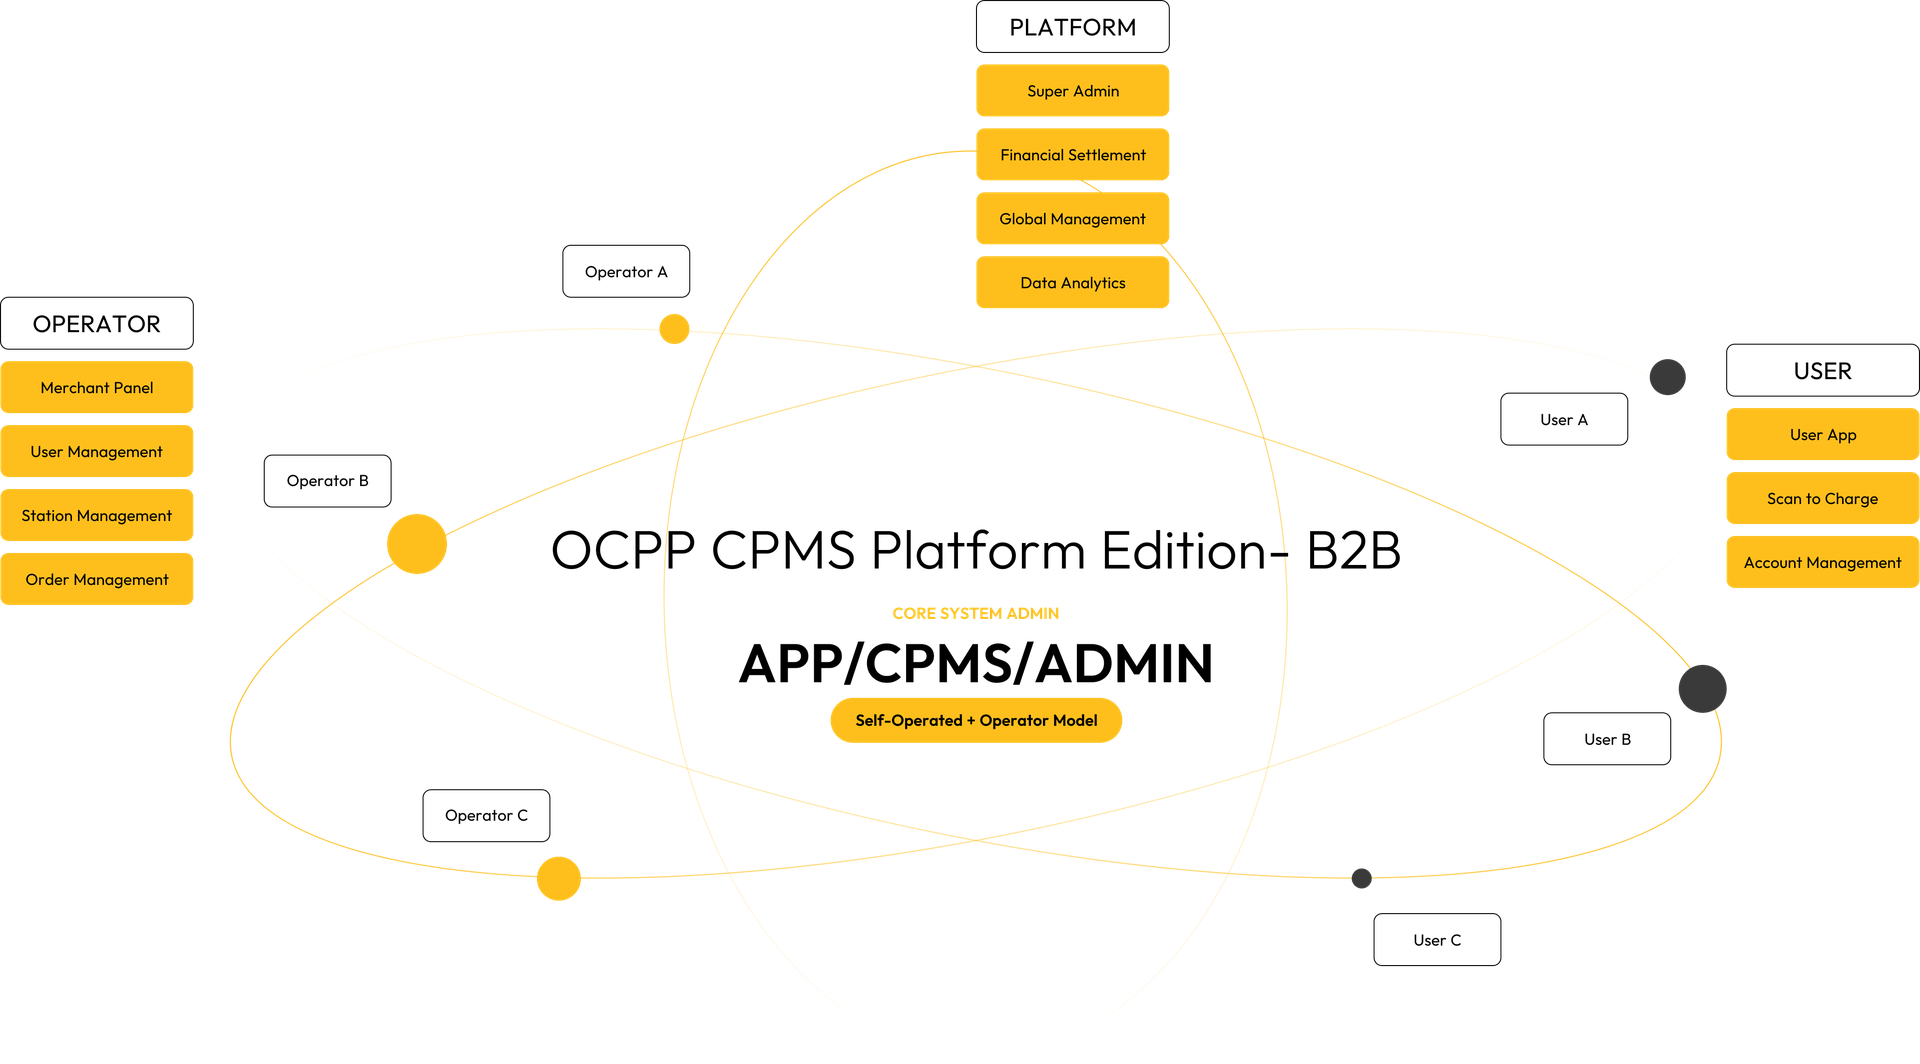
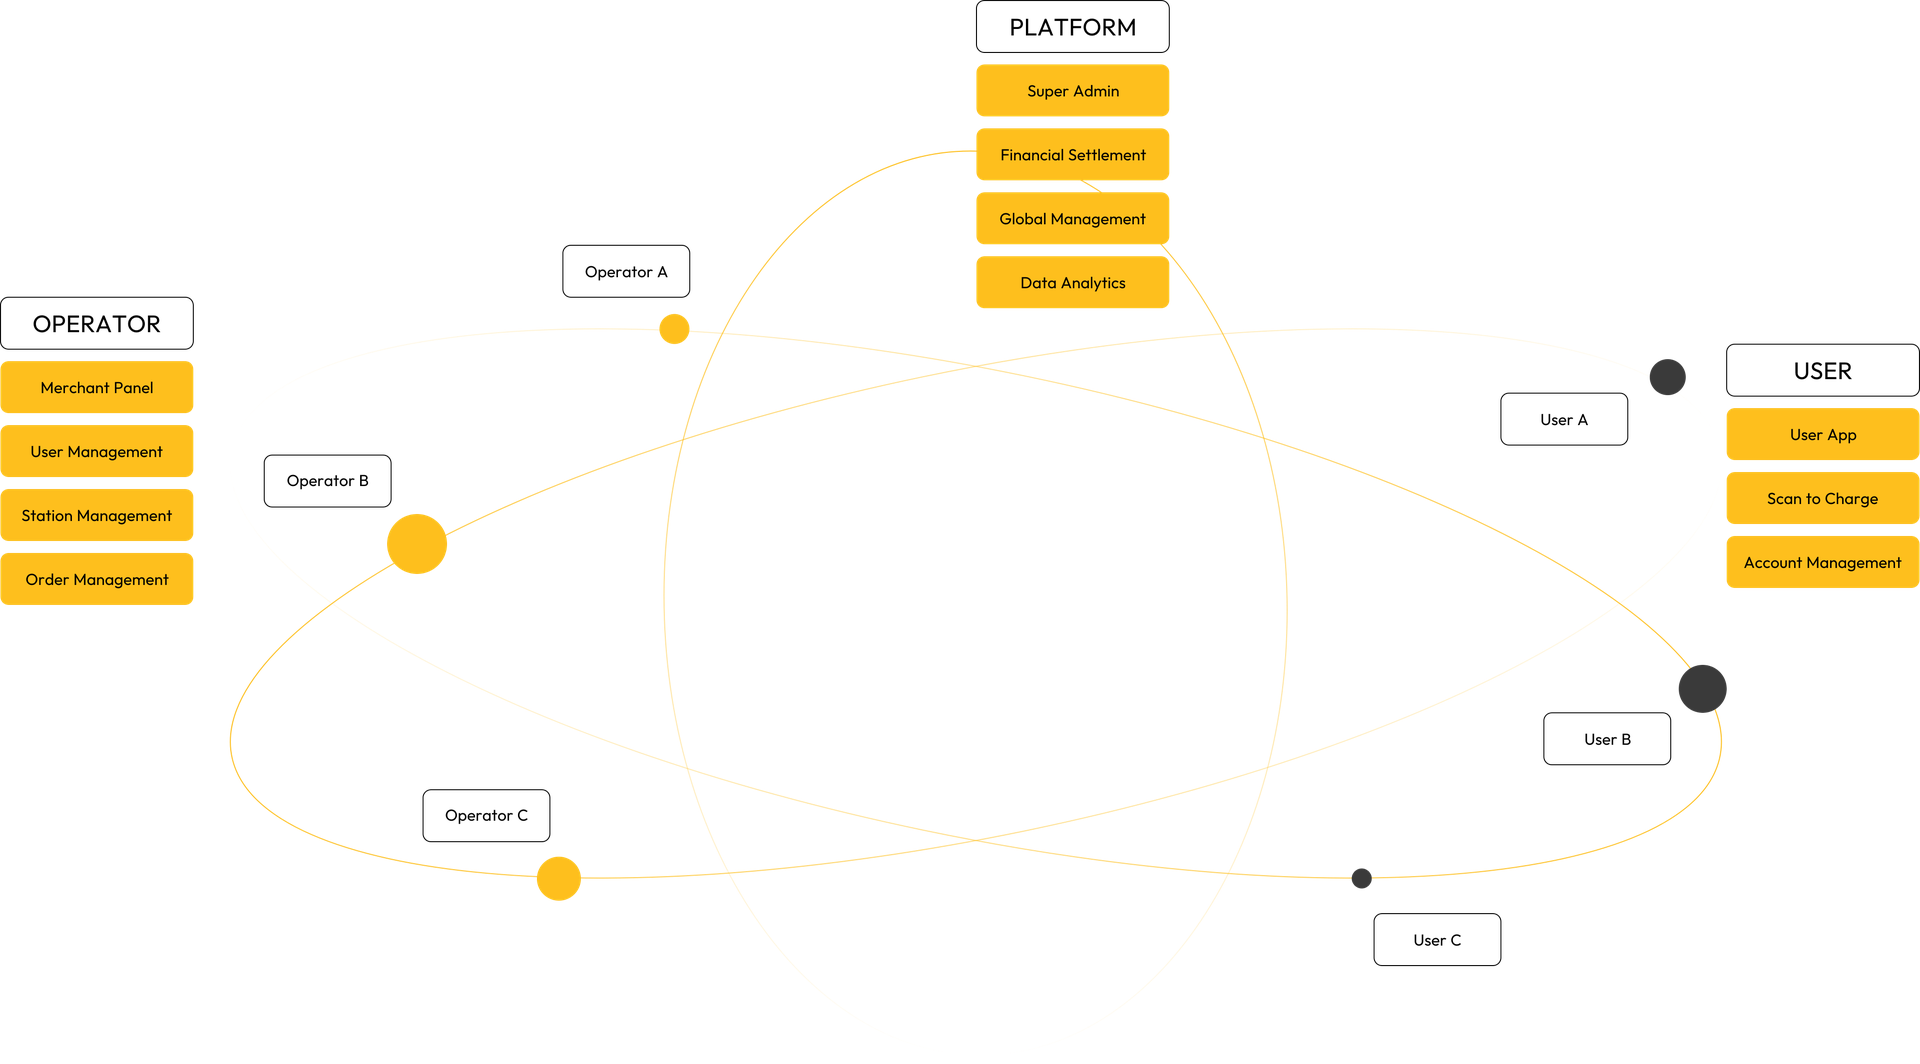
feat(b2b #architecture): empty-center orbital image + HTML title overlay in middle
Swap to the empty-center orbital PNG; drop the section-header; overlay an
HTML title block centered in the orbit: headline (overview.title) + gold
eyebrow (coreLabel) + bold name (center APP/CPMS/ADMIN) + gold pill (model).
New .b2b-arch/.b2b-arch-core CSS. Title is now live i18n text (was baked-in).

Changed region(s): [[0.2812, 0.4962, 0.75, 0.7133]]

diff --git a/website/frontend/src/components/sections/home/paymentIcons.tsx b/website/frontend/src/components/sections/home/paymentIcons.tsx
@@ -4,28 +4,33 @@ import type { ReactNode } from 'react';
 // Inline branded wordmark logos for brands whose PNGs in /public/images/payment
 // were placeholder/empty. Uses each brand's primary color.
 const LOGO_NODE: Record<string, ReactNode> = {
+  // The colored pill (rect) is inset with even margins on all four sides of the
+  // 120x56 viewBox (x=10..110, y=6..50 → pill center stays 60,28), so it reads
+  // as a centered block within the square tile rather than a full-bleed band
+  // hugging the L/R edges. Text is centered on the pill center via
+  // dominantBaseline=middle.
   MoMo: (
     <svg viewBox="0 0 120 56" width="120" height="56" preserveAspectRatio="xMidYMid meet" role="img" aria-label="MoMo">
-      <rect x="1" y="1" width="118" height="54" rx="12" fill="#A50064" />
-      <text x="60" y="37" textAnchor="middle" fill="#FFFFFF" fontFamily="ui-sans-serif, system-ui, sans-serif" fontSize="24" fontWeight="800" letterSpacing="-0.5">MoMo</text>
+      <rect x="10" y="6" width="100" height="44" rx="11" fill="#A50064" />
+      <text x="60" y="28" textAnchor="middle" dominantBaseline="central" fill="#FFFFFF" fontFamily="ui-sans-serif, system-ui, sans-serif" fontSize="22" fontWeight="800" letterSpacing="-0.5">MoMo</text>
     </svg>
   ),
   'Toss Pay': (
     <svg viewBox="0 0 120 56" width="120" height="56" preserveAspectRatio="xMidYMid meet" role="img" aria-label="Toss Pay">
-      <rect x="1" y="1" width="118" height="54" rx="12" fill="#0064FF" />
-      <text x="60" y="36" textAnchor="middle" fill="#FFFFFF" fontFamily="ui-sans-serif, system-ui, sans-serif" fontSize="19" fontWeight="800" letterSpacing="-0.3">Toss Pay</text>
+      <rect x="10" y="6" width="100" height="44" rx="11" fill="#0064FF" />
+      <text x="60" y="28" textAnchor="middle" dominantBaseline="central" fill="#FFFFFF" fontFamily="ui-sans-serif, system-ui, sans-serif" fontSize="18" fontWeight="800" letterSpacing="-0.3">Toss Pay</text>
     </svg>
   ),
   Tabby: (
     <svg viewBox="0 0 120 56" width="120" height="56" preserveAspectRatio="xMidYMid meet" role="img" aria-label="Tabby">
-      <rect x="1" y="1" width="118" height="54" rx="12" fill="#292929" />
-      <text x="60" y="36" textAnchor="middle" fill="#3BFFC1" fontFamily="ui-sans-serif, system-ui, sans-serif" fontSize="21" fontWeight="800" letterSpacing="0">tabby</text>
+      <rect x="10" y="6" width="100" height="44" rx="11" fill="#292929" />
+      <text x="60" y="28" textAnchor="middle" dominantBaseline="central" fill="#3BFFC1" fontFamily="ui-sans-serif, system-ui, sans-serif" fontSize="20" fontWeight="800" letterSpacing="0">tabby</text>
     </svg>
   ),
   Sezzle: (
     <svg viewBox="0 0 120 56" width="120" height="56" preserveAspectRatio="xMidYMid meet" role="img" aria-label="Sezzle">
-      <rect x="1" y="1" width="118" height="54" rx="12" fill="#9B5BFC" />
-      <text x="60" y="36" textAnchor="middle" fill="#FFFFFF" fontFamily="ui-sans-serif, system-ui, sans-serif" fontSize="21" fontWeight="800" letterSpacing="0">sezzle</text>
+      <rect x="10" y="6" width="100" height="44" rx="11" fill="#9B5BFC" />
+      <text x="60" y="28" textAnchor="middle" dominantBaseline="central" fill="#FFFFFF" fontFamily="ui-sans-serif, system-ui, sans-serif" fontSize="20" fontWeight="800" letterSpacing="0">sezzle</text>
     </svg>
   ),
 };

diff --git a/website/frontend/src/app/styles/pages.css b/website/frontend/src/app/styles/pages.css
@@ -1700,6 +1700,71 @@ h3.matrix-header,
   .b2b-hub-core { transition: none; }
 }
 
+/* ============================================================
+   #architecture — static orbital illustration with an HTML title
+   overlaid in the empty centre (headline / gold eyebrow / bold name /
+   gold pill). The .b2b-hub* rules above are now dead/unused.
+   ============================================================ */
+.b2b-arch {
+  position: relative;
+  max-width: 1320px;
+  margin: 0 auto;
+}
+.b2b-arch-core {
+  position: absolute;
+  top: 50%;
+  left: 50%;
+  transform: translate(-50%, -50%);
+  width: min(48%, 640px);
+  display: flex;
+  flex-direction: column;
+  align-items: center;
+  text-align: center;
+  gap: 4px;
+  pointer-events: none;
+}
+.b2b-arch-headline {
+  font-size: clamp(1.1rem, 2.5vw, 2.4rem);
+  font-weight: 400;
+  line-height: 1.1;
+  letter-spacing: -0.01em;
+  color: #3a3a3a;
+}
+.b2b-arch-eyebrow {
+  margin-top: 10px;
+  font-size: clamp(0.58rem, 0.95vw, 0.8rem);
+  font-weight: 700;
+  letter-spacing: 0.16em;
+  text-transform: uppercase;
+  color: #d69500;
+}
+.b2b-arch-name {
+  font-size: clamp(1.35rem, 3.1vw, 2.9rem);
+  font-weight: 800;
+  letter-spacing: -0.01em;
+  line-height: 1.1;
+  color: #1a1a1a;
+}
+.b2b-arch-pill {
+  margin-top: 12px;
+  display: inline-flex;
+  align-items: center;
+  padding: clamp(5px, 0.8vw, 9px) clamp(12px, 1.6vw, 20px);
+  border-radius: 999px;
+  background: var(--primary, #febf1d);
+  color: #1a1a1a;
+  font-size: clamp(0.62rem, 1.1vw, 0.85rem);
+  font-weight: 700;
+  letter-spacing: 0.01em;
+}
+/* Below the orbit breakpoint the nodes wrap tight — let the centre text
+   shrink so it never collides with the ring labels. */
+@media (max-width: 640px) {
+  .b2b-arch-core {
+    width: 72%;
+  }
+}
+
 .b2b-feat-item {
   display: flex;
   gap: 18px;

diff --git a/website/frontend/src/app/[locale]/b2b/page.tsx b/website/frontend/src/app/[locale]/b2b/page.tsx
@@ -176,20 +176,23 @@ export default async function B2BPage({ params }: { params: Promise<{ locale: st
       <section className="section" id="architecture">
         <div className="container">
           <ScrollAnimation>
-            <div className="section-header">
-              <span className="section-label">{t('b2b.nav.overview')}</span>
-              <h2>{t('b2b.overview.title')}</h2>
+            <div className="b2b-arch">
+              <Image
+                src="/images/b2b-architecture.png"
+                alt={t('b2b.overview.title')}
+                width={1920}
+                height={1064}
+                sizes="(max-width: 1320px) 100vw, 1320px"
+                style={{ width: '100%', height: 'auto', display: 'block' }}
+              />
+              {/* Centered title overlay (text in the empty middle of the orbit). */}
+              <div className="b2b-arch-core">
+                <span className="b2b-arch-headline">{t('b2b.overview.title')}</span>
+                <span className="b2b-arch-eyebrow">{t('b2b.overview.coreLabel')}</span>
+                <span className="b2b-arch-name">{t('b2b.overview.center')}</span>
+                <span className="b2b-arch-pill">{t('b2b.overview.model')}</span>
+              </div>
             </div>
-          </ScrollAnimation>
-          <ScrollAnimation>
-            <Image
-              src="/images/b2b-architecture.png"
-              alt={t('b2b.overview.title')}
-              width={1920}
-              height={1064}
-              sizes="(max-width: 1320px) 100vw, 1320px"
-              style={{ width: '100%', height: 'auto', display: 'block', maxWidth: 1320, margin: '0 auto' }}
-            />
           </ScrollAnimation>
         </div>
       </section>

diff --git a/CLAUDE.md b/CLAUDE.md
@@ -49,6 +49,8 @@ Backend: `node deploy/deploy-backend.js` cross-compiles Go + SFTP + systemd rest
 
 ## Last session
 
+- 2026-06-04 — **home #payments "全球支付矩阵" — inset the 4 colored wordmark pills (MoMo/Toss Pay/sezzle/tabby) so the 色块 sits centered in the square with even margins** (user red-boxed those 4 + `logo和色块和正方形高度和水平居中对齐`). These 4 are the only solid-colored-background logos — inline SVG pills (`LOGO_NODE` in `components/sections/home/paymentIcons.tsx`); all others are transparent PNG wordmarks. **Forensics first** (autodebug down on this IP, dev :8000 up): the pills are ALREADY geometrically dead-centered — render path is pure `scale()` (PaymentFisheye.tsx, no translate) + flex-centered square cells (`.payment-fisheye-cell aspect-ratio:1/1`) + centered `120×56` viewBox; pixel-measured every logo in a row shares the EXACT same vertical centroid (MoMo row y=926, sezzle/tabby row y=1523). The only real asymmetry: the colored `rect` was `x=1 w=118 y=1 h=54` = full-bleed, hugging the L/R tile edges (~2% h-margin) while landscape-in-square gives big T/B margins → reads as a band, not a centered block. **Fix**: inset the rect to `x=10 y=6 w=100 h=44 rx=11` (even margins, pill center stays 60,28) on all 4; text now `dominantBaseline:central y=28` (true vertical center on pill center, replaces the hand-tuned baselines y=36/37); fontSizes nudged −1 to fit the narrower pill (MoMo 24→22, Toss 19→18, tabby/sezzle 21→20). So the 色块 is now a centered button with breathing room on all sides (the "looks off-center" was the bottom-only drop-shadow `0 8px 22px -16px` on the invisible white-on-white card, not a real offset). tsc 0. NOT visually verified (autodebug down). Tuning: the inset (x=10/y=6) — increase for more margin, or revert rect to `x=1 y=1 w=118 h=54` + text y back to 36/37 + fontSizes 24/19/21/21 for the prior full-bleed look. The earlier 2026-06-03 entry's landscape-viewBox rationale ("full-width matches neighbors") still holds — this only adds margin, keeps landscape.
+
 - 2026-06-04 — **section transitions v3 — made the 灰色块叠盖 cover SCROLL-LINKED (tied to the wheel), not a one-shot reveal** (user 3rd verbatim re-send `…鼠标滚动灰色块叠盖…但是不要有投影` + `并没有实现，重新改`). Diagnosis: the CSS WAS served correctly on the :8000 dev server (verified `cover-rise`/`translateY(96px)` in the bundle; :81 static server is dead/000) — the problem was the MECHANISM: v1/v2 used an IntersectionObserver one-shot 0.9s transition that fires once on enter, so scrolling fast skips the motion and it's not "鼠标滚动"-tied. **Fix**: rewrote `SectionReveal.tsx` — dropped the `.cover-rise`/`.is-in` class+transition for covers; instead build a `covers[]` list (full-bleed grey section → move the `<section>`; inset grey panel → move its `.container`) and on `scroll` (rAF) write inline `transform: translateY(y)`, `y = COVER_OFFSET(120) * (1 − p)`, `p = (0.95vh − sectionTop)/(0.95vh − 0.42vh)` clamped 0→1. Grey pushed DOWN 120px on entry (p=0, white shows above) → slides UP to its overlapped resting spot (y=0, p=1) IN LOCKSTEP with the wheel, both directions. Removed the old `@media .cover-rise{translateY(96px)}` block from sections.css (no `.is-in` toggler now → it'd push grey down permanently). Per-section STATIC overlap (negative margin + z-index:3: `.b2c-demo-section, #demo.b2b-demo-section`; `#how-it-works` pages.css `margin-top:clamp(-40,-3vw,-24)`) stays so at rest the grey covers the white's bottom. Active covers: home #how-it-works, b2b #demo, b2b #features, b2c #demo. Home CTA EXCLUDED (`isHomeCta` guard — white-rounded-bottom-on-top per 白色做圆角, see entry below). OPAQUE, no opacity, no shadow. tsc 0; prod build ✓; **verified the :8000 bundles HMR'd** (CSS lost translateY(96px); JS has `COVER_OFFSET`/`covers.push`). **If user STILL sees nothing → hard-refresh (Ctrl+Shift+R); Turbopack caches content-addressed bundles.** Tuning: `COVER_OFFSET` slide px, the 0.95/0.42 vh band (widen = slower cover). Revert: restore the IntersectionObserver `.cover-rise`/`--panel` class path + the sections.css `@media .cover-rise` block.
 
 - 2026-06-04 — **home #testimonials(white)→CTA(grey) seam — flipped back so the WHITE block does the rounded corners, not the grey** (`b7d52d1`; user screenshot red-boxing the white/grey corner seam + `这里是白色做圆角，不是灰色`). Last session (cover-rise v2) had flipped this seam so the GREY CTA sat on TOP with rounded-TOP corners covering the white. Reverted that: `#testimonials` (sections.css ~3747) now `z-index:3` + `border-bottom-left/right-radius:clamp(24px,3vw,44px)` (white on top, rounded BOTTOM); `#testimonials + .cta-section` keeps `margin-top:clamp(-72px,-6vw,-44px)` but drops the radius + goes `z-index:1` (grey pulled up BEHIND, fills the carved corner notches). Also `SectionReveal.tsx` — added an `isHomeCta` guard (`.cta-section` whose `previousElementSibling.id === 'testimonials'`) that `return`s BEFORE the cover-rise push, so the grey CTA no longer slides down/up (the COVER_OFFSET=120 push would briefly reveal a gap below the white's rounded bottom). So the seam is now a clean static white-rounded-bottom card with grey peeking in the corners. CSS + 1 TS guard; committed sections.css + SectionReveal.tsx ONLY (NOT the broken b2b/page.tsx in the tree). Revert: `#testimonials` back to flat z-index:1, `.cta-section` back to z-index:3 + the two `border-top-*-radius` rules; drop the `isHomeCta` guard. **TREE WARNING**: `b2b/page.tsx` has uncommitted half-done work from a concurrent session — an unclosed `<div className="b2b-revfeat-stack">` opened at ~line 227 with no matching `</div>` → tsc fails (4 JSX errors in b2b only). Left untouched (not mine, in progress). If you need a clean build, that div needs closing (likely wrap #revenue+#features then `</div>`).
